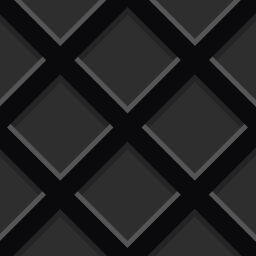
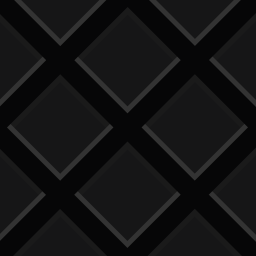
DAWception maaajor lighting changes

diff --git a/dawception/style.css b/dawception/style.css
@@ -21,6 +21,7 @@ html {
   width: 49em;
   margin: auto;
   font-size: 1.3em;
+  position: relative;
 }
 
 .gallery-notice {
@@ -127,13 +128,13 @@ html {
   padding-right: 0;
 }
 
-#bg-sep-orb {
+.bg-sep-orb {
   width: 100%;
   height: 100%;
   position: absolute;
   z-index: -1;
-  transform: scale(12, 4) translate(-5px, 7px);
-  background: radial-gradient(circle at center, rgba(0, 0, 0, 0.4) 0, rgba(0, 0, 0, 0) 30%, rgba(0, 0, 0, 0) 100%);
+  transform: scale(3.5, 1.9) translate(-6px, 20px);
+  background: radial-gradient(circle at center, rgba(255, 255, 255, 0.2) 0, rgba(0, 0, 0, 0) 40%, rgba(0, 0, 0, 0) 100%);
 }
 
 .show-only-on-small-screens {
@@ -141,7 +142,7 @@ html {
 }
 
 .linear-gradient {
-  background: linear-gradient(to bottom, #222 0%, rgba(0, 0, 0, 0.2) 40%, rgba(0, 0, 0, 0) 100%);
+  background: linear-gradient(to bottom, #202020 0%, rgba(0, 0, 0, 0.2) 40%, rgba(0, 0, 0, 0) 100%);
 }
 
 .container {
@@ -626,9 +627,9 @@ pre {
     font-size: 2.7em;
     margin: auto;
   }
-  #bg-sep-orb {
-    background: radial-gradient(circle at center, rgba(0, 0, 0, 0.3) 0, rgba(0, 0, 0, 0) 30%, rgba(0, 0, 0, 0) 100%);
-    transform: scale(12, 4) translate(-5px, 0px);
+  .bg-sep-orb {
+    background: radial-gradient(circle at center, rgba(255, 255, 255, 0.2) 0, rgba(0, 0, 0, 0) 30%, rgba(0, 0, 0, 0) 100%);
+    transform: scale(4, 3) translate(-5px, 0px);
   }
   #pc-img {
     margin: auto;

diff --git a/dawception/style.scss b/dawception/style.scss
@@ -46,6 +46,8 @@ html {
       width: 49em;
       margin: auto;
       font-size: 1.3em;
+
+      position: relative;
 }
 
 .gallery-notice { 
@@ -172,17 +174,17 @@ html {
   }
 }
 
-#bg-sep-orb {
+.bg-sep-orb {
   width: 100%;
   height: 100%;
   position: absolute;
   z-index: -1;
-  transform: scale(12, 4) translate(-5px, 7px);
+  transform: scale(3.5, 1.9) translate(-6px, 20px);
 
   background: radial-gradient(
     circle at center,
-    rgba(0, 0, 0, 0.4) 0,
-    rgba(0, 0, 0, 0) 30%,
+    rgba(255, 255, 255, 0.2) 0,
+    rgba(0, 0, 0, 0) 40%,
     rgba(0, 0, 0, 0) 100%
   );
 }
@@ -192,7 +194,7 @@ html {
 .linear-gradient {
   background: linear-gradient(
     to bottom,
-    #222 0%,
+    #141414 0%,
     rgba(0, 0, 0, 0.2) 40%,
     rgba(0, 0, 0, 0) 100%
   );
@@ -821,7 +823,7 @@ $feature-card-border-color: rgb(50,50,50);
     }
   }
 
-  #bg-sep-orb {
+  .bg-sep-orb {
     background: radial-gradient(
       circle at center,
       rgba(0, 0, 0, 0.3) 0,

diff --git a/dawception/index.html b/dawception/index.html
@@ -36,7 +36,7 @@
         <div class="container" id="about">
 
             <div id="opener-texts-wrapper" class="opener-section">
-                <div id="bg-sep-orb"></div>
+                <div class="bg-sep-orb"></div>
                 <div id="this-is-track" data-aos="fade-up" data-aos-duration="200" data-aos-easing="linear">This is <span>DAWception</span>.</div>
                 <div id="slogan" data-aos="fade-up" data-aos-delay="100" data-aos-duration="200">Get past that 8 track limit in your DAW. 
                     <!--<br /> 
@@ -72,6 +72,9 @@
         </div>
 
         <div class="margined-container">
+
+            <div class="bg-sep-orb"></div>
+
             <div class="feature-wrapper">
                 <div class="feature-img" style="background-image: url('img-tracks.png');  background-position: left;" title="Screenshot showing a group being used to house a few tracks"></div>
                 <div class="feature-desc">Independently processed <span>unlimited stereo audio tracks</span> which can be organized using&nbsp;groups</div>
@@ -81,7 +84,7 @@
                 <div class="feature-img" id="img-hosting" style="background-image: url('img-hosting.png');" title="Screenshot of an 1176 compressor plugin being hosted within DAWception, and its GUI opened"></div>
                 <div class="feature-desc"><span>VST3 plugin hosting</span> for individual tracks and/or groups, with <span>latency compensation</span></div>
             </div>
-            
+
             <div class="feature-wrapper">
                 <div class="feature-img" style="background-image: url('img-drywet.png');" title="Screenshot of the dry/wet mix changing for a plugin"></div>
                 <div class="feature-desc"><span>Dry/wet control added to every hosted plugin</span> (even if the hosted plugin doesn't provide it by default)</div>